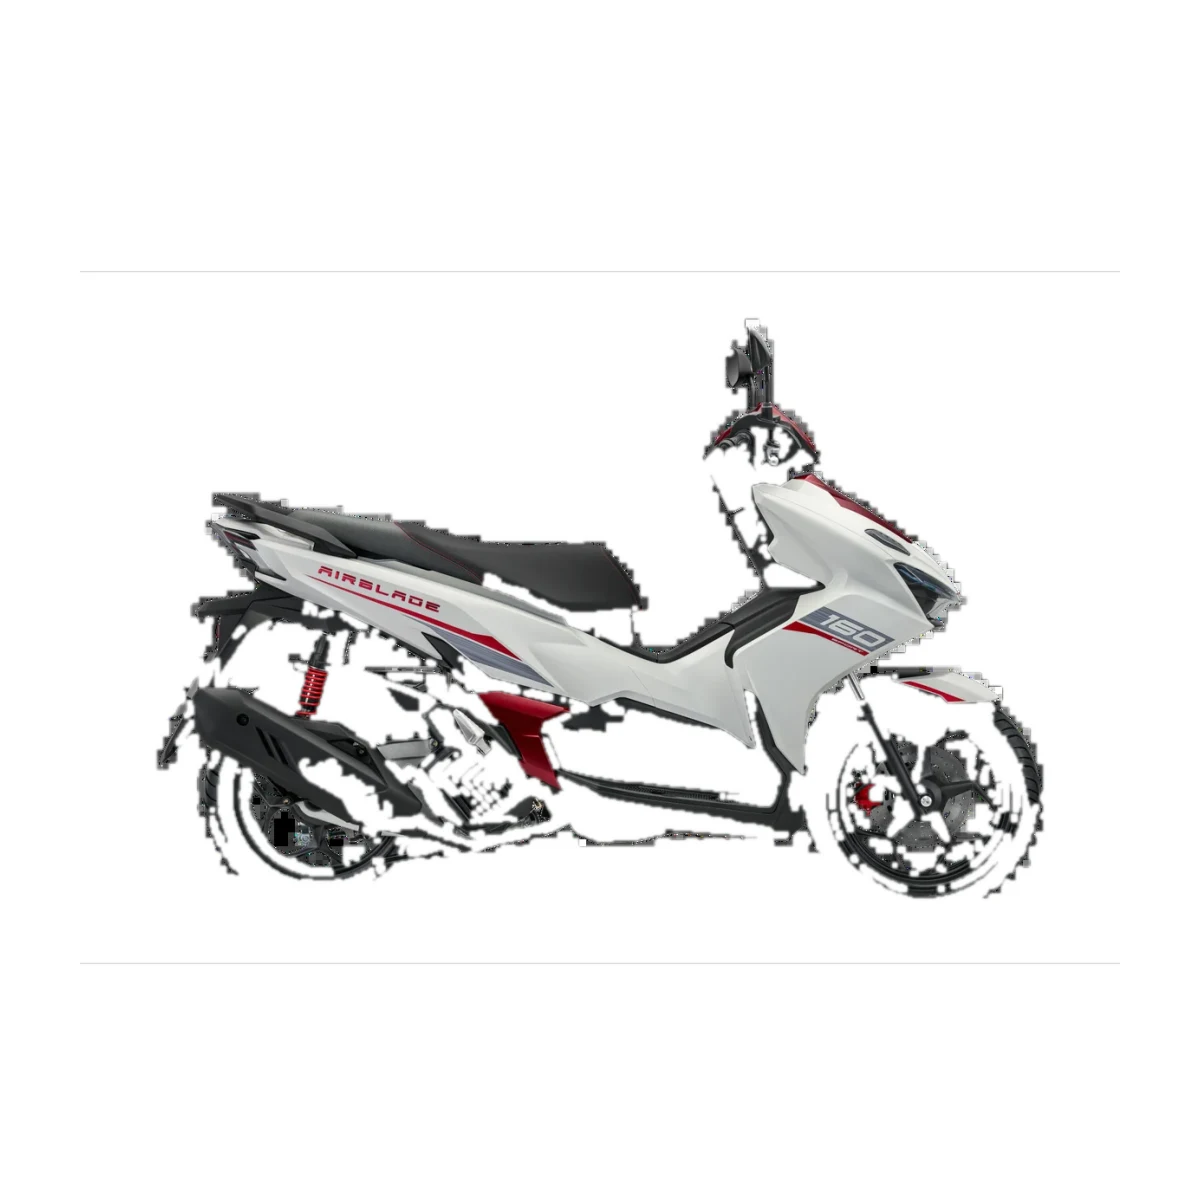
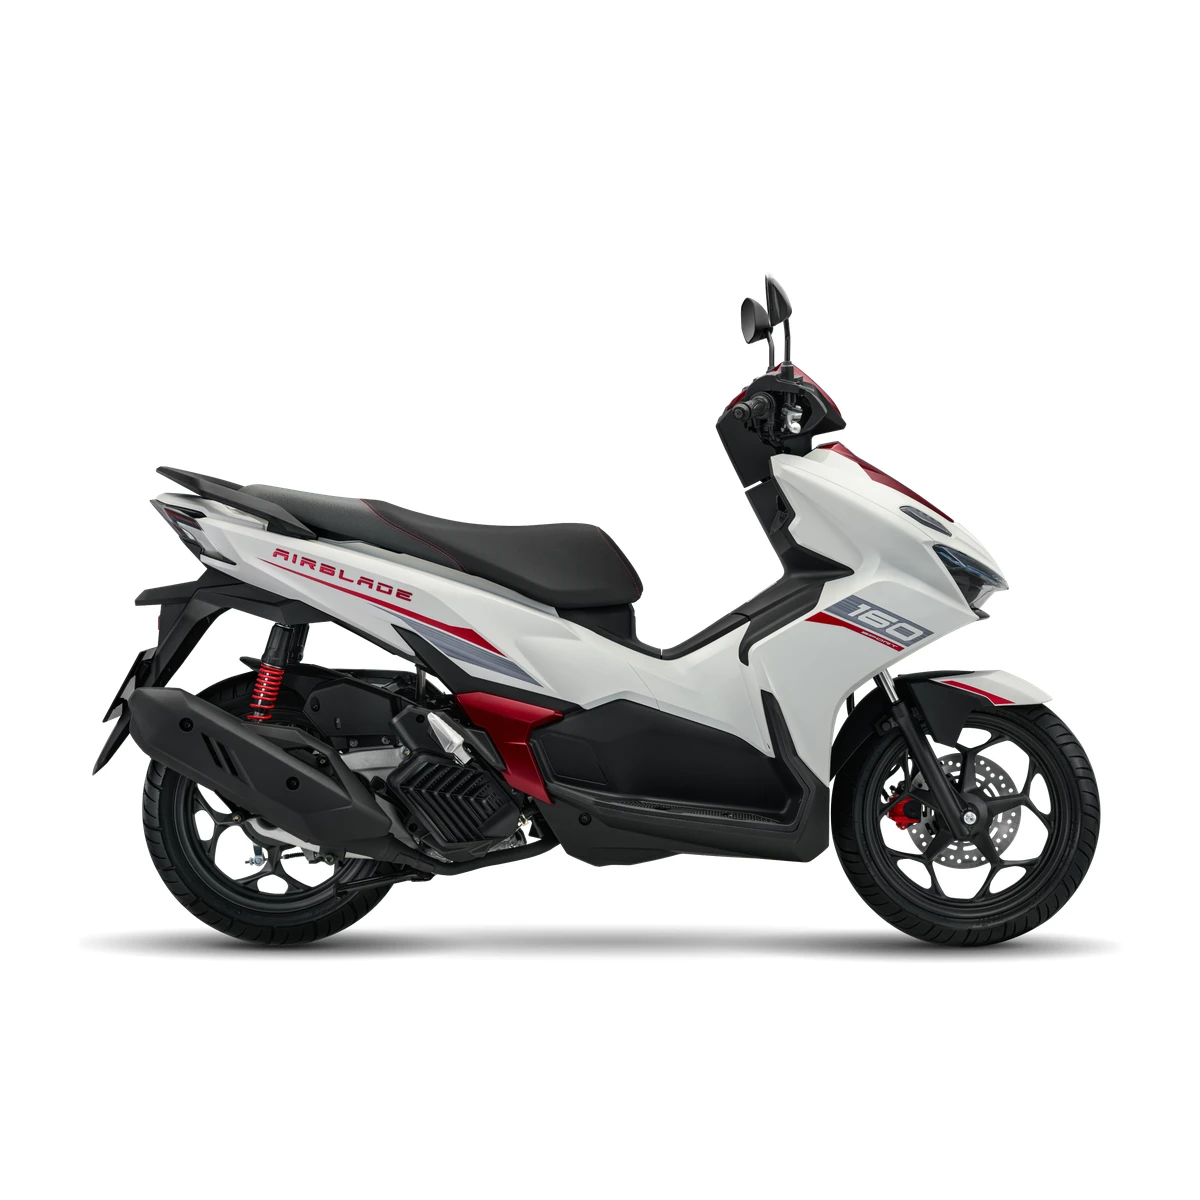
Fix broken AirBlade and Tuareg media and add QA sheets

Changed region(s): [[0.0617, 0.2158, 0.925, 0.8017]]

diff --git a/lib/media.ts b/lib/media.ts
@@ -946,7 +946,7 @@ export const entityMedia: EntityMedia[] = [
   {
     id: "honda-airblade-160-honda-official", entityType: "motorcycle", entityId: "honda-airblade-160", role: "primary",
     src: "/media/motorcycles/honda-airblade-160.webp", sourceImageUrl: "https://cdn.honda.com.vn/motorbike-versions/Image360/November2025/1762148885/0.png", alt: "Honda AirBlade 160 scooter", width: 1200, height: 1200,
-    rightsStatus: "external-reference", rightsHolder: "Honda Vietnam", sourceLabel: "Manufacturer-hosted image reference · Honda AirBlade 160", sourceUrl: "https://www.honda.com.vn/xe-may/san-pham/air-blade-160125", lastChecked: "2026-09-23"
+    rightsStatus: "external-reference", rightsHolder: "Honda Vietnam", sourceLabel: "Manufacturer-hosted transparent product image · Honda AirBlade 160", sourceUrl: "https://www.honda.com.vn/xe-may/san-pham/air-blade-160125?changeVersionFlag=2025", lastChecked: "2026-09-24"
   },
   {
     id: "honda-cbr150r-honda-ph", entityType: "motorcycle", entityId: "honda-cbr150r", role: "primary",
@@ -1195,8 +1195,8 @@ export const entityMedia: EntityMedia[] = [
   },
   {
     id: "aprilia-tuareg-660-aprilia-store", entityType: "motorcycle", entityId: "aprilia-tuareg-660", role: "primary",
-    src: "/media/motorcycles/aprilia-tuareg-660.webp", sourceImageUrl: "https://storeusa.aprilia.com/img/models/Tuareg%20660/model_img_detail_1-Tuareg%20660.jpg", alt: "Aprilia Tuareg 660 adventure motorcycle", width: 1200, height: 1200,
-    rightsStatus: "external-reference", rightsHolder: "Aprilia", sourceLabel: "Manufacturer store image reference · Aprilia Tuareg 660", sourceUrl: "https://storeusa.aprilia.com/tuareg660.aspx", lastChecked: "2026-09-24"
+    src: "/media/motorcycles/aprilia-tuareg-660.webp", sourceImageUrl: "https://apriliaindia.com/images/tuareg-660/aprilia_tuareg_660_feature1.png", alt: "Aprilia Tuareg 660 adventure motorcycle", width: 1200, height: 1200,
+    rightsStatus: "external-reference", rightsHolder: "Aprilia India", sourceLabel: "Manufacturer-hosted product image · Aprilia India Tuareg 660", sourceUrl: "https://apriliaindia.com/aprilia-tuareg-660.php", lastChecked: "2026-09-24"
   },
   {
     id: "aprilia-tuono-660-aprilia-store", entityType: "motorcycle", entityId: "aprilia-tuono-660", role: "primary",
